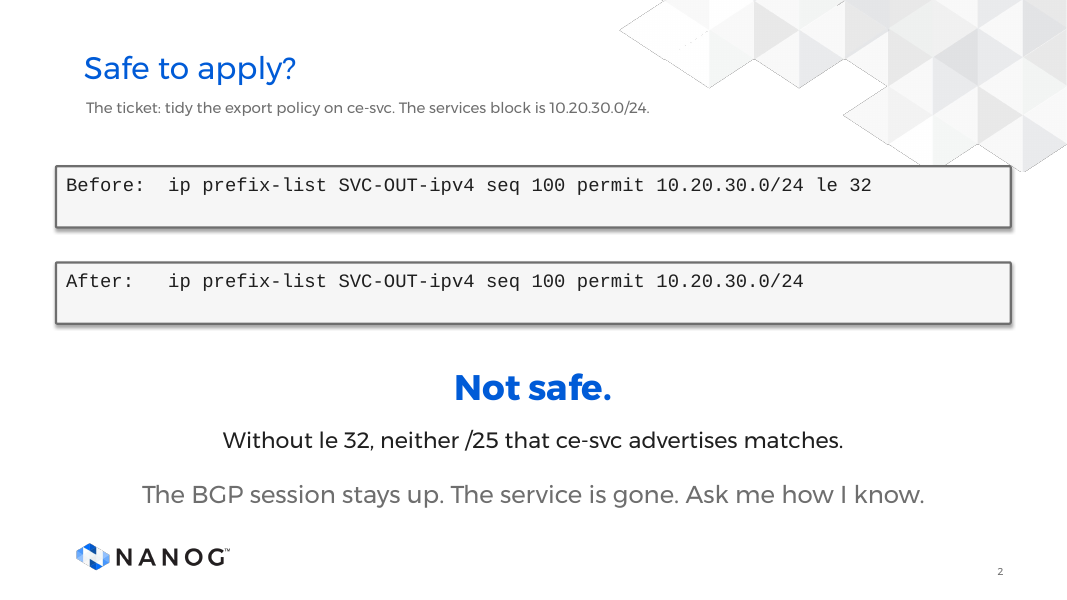
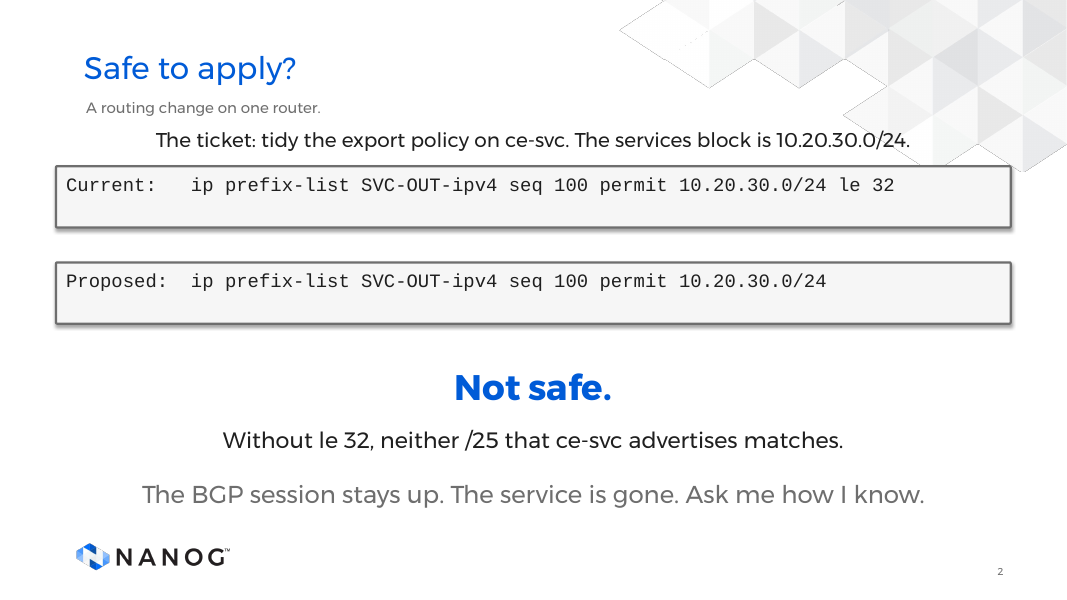
docs: NANOG 98 talk, five-click cold open, Forward 26.9

Changed region(s): [[0.0928, 0.15, 0.866, 0.27], [0.0619, 0.3, 0.8351, 0.33], [0.0619, 0.45, 0.7732, 0.48]]

diff --git a/docs/talks/nanog98/README.md b/docs/talks/nanog98/README.md
@@ -54,15 +54,27 @@ DELIVERY 00:30–01:30 (60 seconds).
 
 
 
-After the title, a puzzle before the thesis. The ticket: tidy the export policy on ce-svc, a router in a small MPLS VPN lab. The services block is 10.20.30.0/24. Here is the policy before, and the one line after: the same prefix-list, with le 32 taken off. It reads like a tidy-up. Ask for a show of hands: safe to apply? Give them ten seconds.
+After the title, a puzzle before the thesis. A routing change on one router, in a small MPLS VPN lab. Build it a piece at a time, and ask for a show of hands at the end of click 3: safe to apply?
 
 
 
-CLICK 1: Not safe. The service is advertised as two /25s, 10.20.30.0/25 and 10.20.30.128/25. With le 32, the /24 line matches them. Without it, the line matches only the /24 itself, and neither /25 does. So ce-svc stops advertising the service. One line on one router, and the routes for that service are withdrawn from the VPN.
+CLICK 1: The ticket. Tidy the export policy on ce-svc. The services block is 10.20.30.0/24. Say what ce-svc is: the router that advertises the services toward the provider.
 
 
 
-CLICK 2: The BGP session is still up, so an adjacency check passes. The service is gone anyway. I will show you the evidence for this one in a few minutes, from the lab and from the model. Nothing on the page tells you, you need the network.
+CLICK 2: The current policy, one prefix-list line. It permits the /24 and anything more specific, le 32.
+
+
+
+CLICK 3: The proposed change: the same line with le 32 taken off. It reads like a tidy-up. Pause. Hands up: safe to apply? Give them ten seconds.
+
+
+
+CLICK 4: Not safe. The service is advertised as two /25s, 10.20.30.0/25 and 10.20.30.128/25. With le 32, the /24 line matches them. Without it, the line matches only the /24 itself, and neither /25 does. So ce-svc stops advertising the service. One line on one router, and the routes for that service are withdrawn from the VPN.
+
+
+
+CLICK 5: The BGP session is still up, so an adjacency check passes. The service is gone anyway. I will show you the evidence for this one in a few minutes, from the lab and from the model. Nothing on the page tells you, you need the network.
 
 
 
@@ -72,9 +84,15 @@ Then the stake: To find out whether it is safe, I could read it, run it in a lab
 
 CLICK CUES
 
-1. On click: Not safe. + Without le 32, neither /25 that ce-svc advertise.
+1. On click: The ticket: tidy the export policy on ce-svc. Th.
 
-2. On click: The BGP session stays up. The service is gone. A.
+2. On click: Current:   ip prefix-list SVC-OUT-ipv4 seq 100 p.
+
+3. On click: Proposed:  ip prefix-list SVC-OUT-ipv4 seq 100 p.
+
+4. On click: Not safe. + Without le 32, neither /25 that ce-svc advertise.
+
+5. On click: The BGP session stays up. The service is gone. A.
 
 
 
